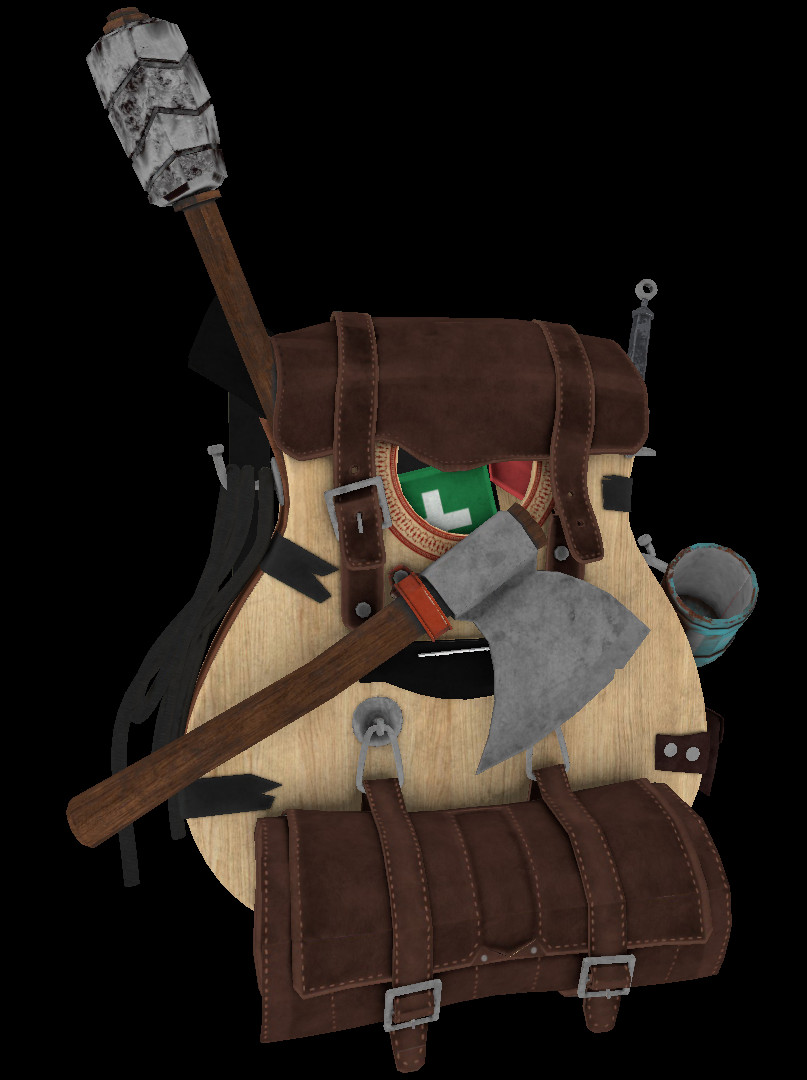
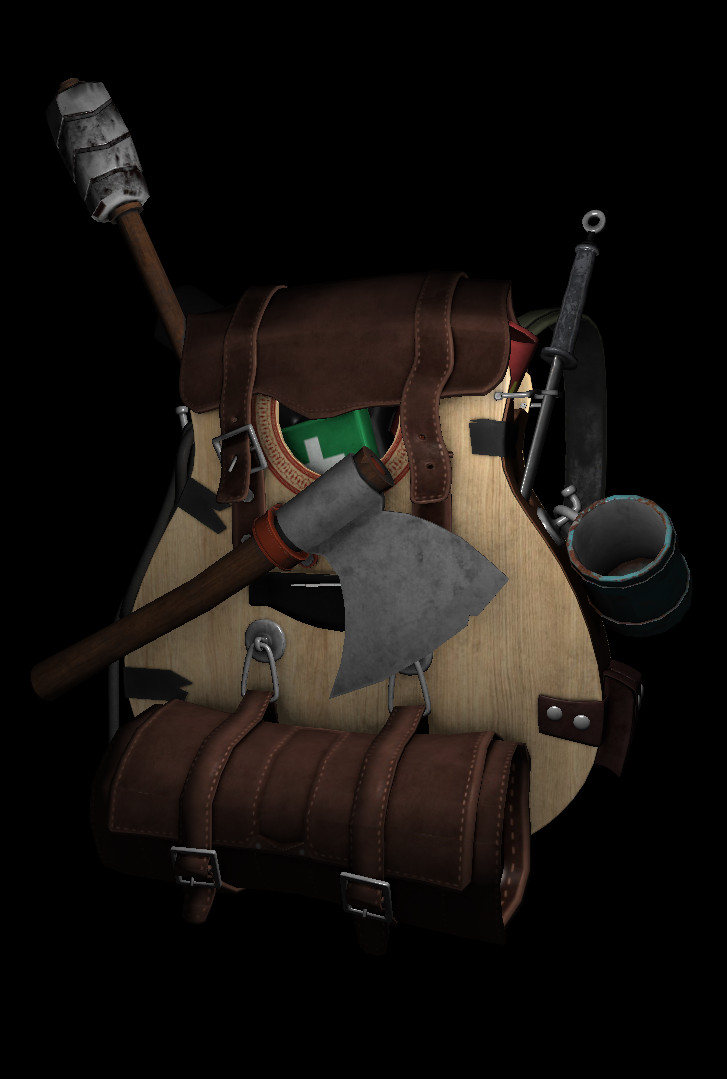
added phong lighting model

diff --git a/src/model.hpp b/src/model.hpp
@@ -3,13 +3,14 @@
 #define MODEL_HPP
 
 
-#include "assimp/Importer.hpp"
-#include "assimp/scene.h"
-#include "assimp/postprocess.h"
+#include <assimp/Importer.hpp>
+#include <assimp/scene.h>
+#include <assimp/postprocess.h>
 
 #include "mesh.hpp"
 #include "texture.hpp"
 #include "shader.hpp"
+#include "camera.hpp"
 
 #include <vector>
 #include <filesystem>
@@ -19,7 +20,6 @@
 class Model
 {
 private:
-    
     std::vector<Mesh> _meshes;
     std::filesystem::path _path;
 
@@ -38,28 +38,40 @@ private:
             mat.d1, mat.d2, mat.d3, mat.d4
         );
     }
-public:
-
-    Model(const std::filesystem::path &path, bool standart_dir=true);
 
     void process_node(aiNode* node, const aiScene* scene, const glm::mat4& trans = glm::mat4(1.f));
     void process_mesh(aiMesh* mesh, const aiScene* scene,  const glm::mat4& trans);
+public:
+    glm::mat4 _trans = glm::mat4(1.f);
+
+    Model(const std::filesystem::path &path, bool standart_dir=true);
 
     void draw(
+        const Camera& camera,
         const Shader& shader,
-        const glm::mat4& view,
-        const glm::mat4& projection) const
+        float aspect_ratio = 1.f
+    )
     {
         shader.use();
+
+        glActiveTexture(GL_TEXTURE0);
         _diffuse.bind();
-        shader.setMat4("model", glm::mat4(1.f));
-        shader.setMat4("view", view);
-        shader.setMat4("projection", projection);
+        shader.setInt("diffuse_text", 0);
+
+        glActiveTexture(GL_TEXTURE1);
+        _specular.bind();
+        shader.setInt("specular_text", 1);
+
+        shader.setMat4("model", _trans);
+        shader.setVec3("viewPos", camera._pos);
+        shader.setMat4("view", camera.get_view());
+        shader.setMat4("projection", camera.get_proj(aspect_ratio));
         for (const auto& mesh : _meshes)
         {
             mesh.draw();
         }
     }
+
     ~Model() = default;
 };
 

diff --git a/src/main.cpp b/src/main.cpp
@@ -17,7 +17,6 @@ int main()
     Camera camera;
 
 
-    camera.isActive = false;
     camera.isCaptured = false;
     camera._speed = 5.f;
     bool isClicked = false;
@@ -25,9 +24,14 @@ int main()
     {
         auto elapsedTime = window.elapsed_time();
         
+        backpack._trans = glm::rotate(
+            backpack._trans,
+            float(glm::radians(22.5f * elapsedTime)),
+            glm::vec3(0.f, 1.f, 0.f)
+        );
+
         //processing input
         window.poll_events();
-
 
         if (window.is_mouse_clicked())
             isClicked = true;
@@ -61,11 +65,15 @@ int main()
             camera.move( camera.get_dir() * velocity);
         if (window.is_key_pressed(Window::key::d))
             camera.move(-camera.get_right() * velocity);
+        if (window.is_key_pressed(Window::key::space))
+            camera.move(-camera.get_up() * velocity);
+        if (window.is_key_pressed(Window::key::left_shift))
+            camera.move(camera.get_up() * velocity);
 
         //rendering
         window.clear_src(glm::vec3(0.f, 0.f, 0.f));
 
-        backpack.draw(shader_basic, camera.get_view(), camera.get_proj(window.aspect_ratio()));
+        backpack.draw(camera, shader_basic, window.aspect_ratio());
 
         window.blit_scr();
     }
